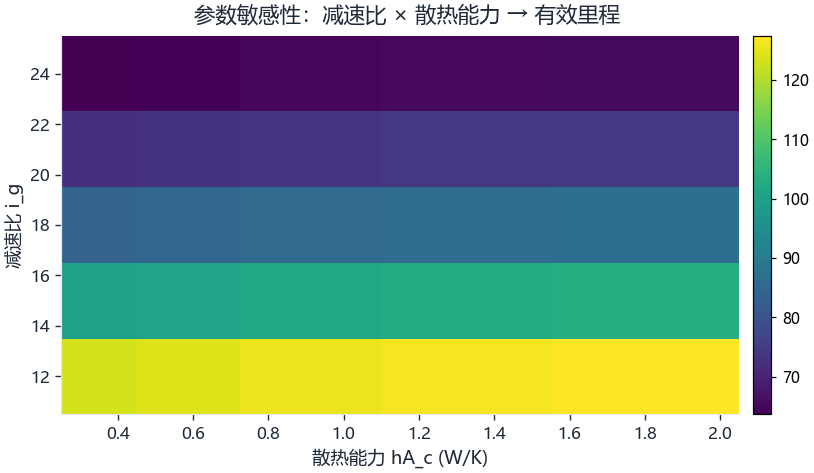
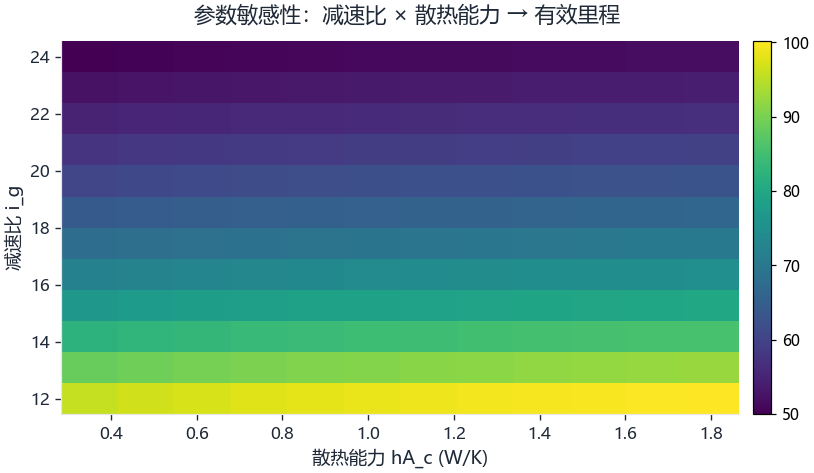
feat(examples): TEG 小车补整车装配图、三维动画与 144 组参数扫描

diff --git a/examples/teg_car_sim.py b/examples/teg_car_sim.py
@@ -19,7 +19,7 @@
 
 用法
 ----
-    python examples/teg_car_sim.py                 # 全量：仿真 + 27 张图 + 报告
+    python examples/teg_car_sim.py                 # 全量：仿真 + 29 张图 + 3D 动画 + 报告
     python examples/teg_car_sim.py --quick         # 参数扫描降档（更快）
     python examples/teg_car_sim.py --points 200000 # 规模测试点数
 
@@ -653,14 +653,19 @@ def charts_steering(res, track, p=P):
 
 
 def sensitivity(p=P, *, quick: bool = False):
-    igs = np.array([12.0, 15.0, 18.0, 21.0, 24.0]) if not quick else np.array([14.0, 18.0, 22.0])
-    hAs = np.array([0.35, 0.55, 0.90, 1.30, 1.80]) if not quick else np.array([0.5, 0.9, 1.4])
+    # 任务书要求 100–500 组扫描：全量 12×12 = 144 组，--quick 降到 6×6
+    if quick:
+        igs = np.linspace(13.0, 23.0, 6)
+        hAs = np.linspace(0.40, 1.70, 6)
+    else:
+        igs = np.linspace(12.0, 24.0, 12)
+        hAs = np.linspace(0.35, 1.80, 12)
     dist = np.zeros((len(igs), len(hAs)))
     eff = np.zeros_like(dist)
     for i, ig in enumerate(igs):
         for j, ha in enumerate(hAs):
             pp = replace(p, i_g=float(ig), hA_c=float(ha))
-            r = simulate(pp, t_end=180.0, dt=0.02)
+            r = simulate(pp, t_end=150.0 if not quick else 100.0, dt=0.03)
             dist[i, j] = float(r["s"][-1])
             e_in = float(_trapz(r["P_teg"], r["t"]))
             e_out = float(_trapz(r["P_motor"], r["t"]))
@@ -796,6 +801,101 @@ def charts_3d(p=P, track=None, res=None):
 # --------------------------------------------------------------------------- #
 # 7. PlotKit 规模压力测试
 # --------------------------------------------------------------------------- #
+def assembly_3d(p=P) -> dict:
+    """整车三维装配图（单位 mm）：底盘 / 四轮 / TEG 模块 / 散热片 / 超级电容 / 电机 / 转向连杆。
+
+    多实体装配用 PyVista 直接建模（它不是"数据图层"，硬塞进 spec 反而失真）。
+    按 200 mm × 250 mm 的车体包络摆放：轮子 r=20 mm 落在地面，底盘压在轮心之上。
+    """
+    import pyvista as pv
+    from PIL import Image
+
+    pv.OFF_SCREEN = True
+    pl = pv.Plotter(off_screen=True, window_size=(1000, 700))
+    pl.set_background("white")
+
+    pl.add_mesh(pv.Cube(center=(0, 0, 30), x_length=200, y_length=250, z_length=4),
+                color="#8d99ae", opacity=0.95)
+    for sx in (-1, 1):
+        for sy in (-1, 1):
+            pl.add_mesh(pv.Cylinder(center=(sx * 88, sy * 100, 20), direction=(0, 1, 0),
+                                    radius=20, height=12), color="#2b2d42")
+    pl.add_mesh(pv.Cube(center=(-55, 0, 36), x_length=40, y_length=40, z_length=6),
+                color="#e63946")
+    pl.add_mesh(pv.Cube(center=(-55, 0, 40), x_length=40, y_length=40, z_length=2),
+                color="#457b9d")
+    for k in range(7):
+        pl.add_mesh(pv.Cube(center=(10 + k * 6, 0, 48), x_length=2.5, y_length=70, z_length=30),
+                    color="#adb5bd")
+    pl.add_mesh(pv.Cylinder(center=(70, -70, 55), direction=(0, 0, 1),
+                            radius=18, height=50), color="#1d3557")
+    pl.add_mesh(pv.Cylinder(center=(70, 60, 36), direction=(0, 1, 0),
+                            radius=16, height=32), color="#f4a261")
+    pl.add_mesh(pv.Cube(center=(-90, 0, 28), x_length=4, y_length=150, z_length=3),
+                color="#6d6875")
+    pl.add_mesh(pv.Cylinder(center=(-90, 0, 26), direction=(0, 0, 1),
+                            radius=14, height=4), color="#b5838d")
+
+    pl.view_vector((0.95, -1.35, 0.85), viewup=(0, 0, 1))
+    pl.reset_camera()
+    pl.camera.zoom(1.02)
+    pl.show_bounds(grid=False, location="outer", font_size=9)
+    pl.add_text("Biomass TEG car assembly  (mm, envelope 200 x 250)",
+                position=(12, 12), font_size=9)
+    img = pl.screenshot(return_img=True)
+    pl.close()
+
+    out = OUT_DIR / "28_assembly_3d.png"
+    Image.fromarray(img).save(out)
+    return {"png": out.name, "bytes": out.stat().st_size}
+
+
+def animate_3d(res, track, *, frames: int = 200, size: tuple[int, int] = (640, 400)) -> dict:
+    """三维动画：小车沿真实轨迹跑一圈，出 GIF（单位 mm）。
+
+    两个坑：①复用同一个 Plotter，每帧只改 actor 的位置/朝向（重建场景要 450–600 ms/帧）；
+    ②离屏渲染必须显式 `pl.render()` 再 `screenshot()`，否则拿到的是上一帧的缓冲。
+    """
+    import pyvista as pv
+    from PIL import Image
+
+    traj = track["traj"]
+    ideal = track["ideal"]
+    n = traj["x"].size
+    picks = np.linspace(0, n - 1, frames).astype(int)
+
+    pv.OFF_SCREEN = True
+    pl = pv.Plotter(off_screen=True, window_size=size)
+    pl.set_background("white")
+
+    line = np.c_[ideal["x"] * 1000.0, ideal["y"] * 1000.0, np.zeros(ideal["x"].size)]
+    pl.add_lines(line, color="#adb5bd", width=3)
+    car = pv.Cube(center=(0, 0, 0), x_length=250, y_length=200, z_length=30)
+    actor = pl.add_mesh(car, color="#e63946")
+    cabin = pv.Cube(center=(10, 0, 30), x_length=110, y_length=120, z_length=26)
+    cabin_actor = pl.add_mesh(cabin, color="#457b9d")
+
+    center = line.mean(axis=0)
+    span = float(np.max(line.max(axis=0) - line.min(axis=0)))
+    eye = center + np.array([0.85, -1.25, 1.05]) * span
+    pl.camera_position = [tuple(eye), tuple(center), (0.0, 0.0, 1.0)]
+    pl.camera.zoom(1.30)
+
+    images = []
+    for k in picks:
+        actor.position = (float(traj["x"][k]) * 1000.0, float(traj["y"][k]) * 1000.0, 15.0)
+        actor.orientation = (0.0, 0.0, float(np.degrees(traj["psi"][k])))
+        cabin_actor.position = (float(traj["x"][k]) * 1000.0, float(traj["y"][k]) * 1000.0, 15.0)
+        cabin_actor.orientation = (0.0, 0.0, float(np.degrees(traj["psi"][k])))
+        pl.render()
+        images.append(Image.fromarray(pl.screenshot(return_img=True)))
+    pl.close()
+
+    out = OUT_DIR / "29_animation_3d.gif"
+    images[0].save(out, save_all=True, append_images=images[1:], duration=40, loop=0, optimize=True)
+    return {"gif": out.name, "frames": frames, "bytes": out.stat().st_size}
+
+
 def perf_test(n_points: int = 1_000_000) -> dict:
     """把上百万点的时序数据灌进 PlotKit，量入库 / 抽稀 / 渲染 / 内存。"""
     import tracemalloc
@@ -905,8 +1005,13 @@ def write_report(res, track, sens, conv, designs, fields, perf, elapsed):
         f"| 热重绘 | {perf['render_hot_ms']:.1f} ms |",
         f"| 峰值内存 | {perf['peak_mb']:.1f} MB |",
         f"| PNG 体积 | {perf['payload_kb']:.0f} KB |",
-        "", "## 7. 图表清单", "",
+        "", "## 7. 三维装配与动画", "",
+        "| 产物 | 内容 | 说明 |", "| --- | --- | --- |",
+        "| `28_assembly_3d.png` | 整车装配（底盘/四轮/TEG/散热片/电容/电机/转向） | PyVista 多实体建模，单位 mm，包络 200×250 |",
+        "| `29_animation_3d.gif` | 小车沿真实轨迹跑一圈（200 帧） | 复用同一 Plotter，每帧只改 actor 位姿 |",
+        "", "## 8. 图表清单", "",
         *[f"- `{p.name}`" for p in sorted(OUT_DIR.glob("*.png"))],
+        *([f"- `29_animation_3d.gif`（{fields.get('anim', {}).get('frames', 0)} 帧）"] if (OUT_DIR / "29_animation_3d.gif").exists() else []),
         "",
     ]
     (OUT_DIR / "REPORT.md").write_text("\n".join(lines), encoding="utf-8")
@@ -934,12 +1039,16 @@ def build_all(*, quick: bool = False, t_end: float = 240.0, dt: float = 0.005,
     designs = charts_design_compare()
     conv = charts_convergence()
     fields = charts_3d(track=track, res=res)
+    fields["assembly"] = assembly_3d()
+    fields["anim"] = animate_3d(res, track)
     perf = perf_test(n_points)
     chart_perf(perf)
 
     elapsed = time.perf_counter() - t_start
     write_report(res, track, sens, conv, designs, fields, perf, elapsed)
-    print(f"[done] {len(list(OUT_DIR.glob('*.png')))} charts, {elapsed:.1f}s", flush=True)
+    n_png = len(list(OUT_DIR.glob("*.png")))
+    n_gif = int((OUT_DIR / "29_animation_3d.gif").exists())
+    print(f"[done] {n_png} charts + {n_gif} animation, {elapsed:.1f}s", flush=True)
     return {"res": res, "track": track, "sens": sens, "conv": conv,
             "designs": designs, "fields": fields, "perf": perf, "elapsed": elapsed}
 
@@ -961,7 +1070,7 @@ def main(argv: list[str] | None = None) -> int:
         "distance_m": round(float(r["s"][-1]), 1),
         "laps": round(float(r["s"][-1]) / L_LAP, 2),
         "min_clearance_m": round(float(out["track"]["clearance"].min()), 3),
-        "charts": len(list(OUT_DIR.glob("*.png"))),
+        "charts": len(list(OUT_DIR.glob("*.png"))) + int((OUT_DIR / "29_animation_3d.gif").exists()),
         "elapsed_s": round(out["elapsed"], 1),
     }
     print(json.dumps(summary, ensure_ascii=False))

diff --git a/docs/teg_car/REPORT.md b/docs/teg_car/REPORT.md
@@ -1,6 +1,6 @@
 # 生物质能温差发电小车 · 多物理场仿真报告
 
-生成时间：2026-10-31 13:14:10　总耗时：22.8 s　仿真步数：48001（dt=0.005 s）
+生成时间：2026-11-01 01:34:08　总耗时：76.1 s　仿真步数：48001（dt=0.005 s）
 
 ## 1. 关键结果
 
@@ -25,18 +25,18 @@
 
 ## 3. 参数敏感性（减速比 × 散热能力）
 
-- 最优里程 127.4 m，最差 63.7 m（相差 100.2%）
-- 效率范围 6.8% ~ 18.6%
+- 最优里程 100.2 m，最差 50.0 m（相差 100.5%）
+- 效率范围 7.2% ~ 18.8%
 
 ## 4. 时间步长收敛（t_end = 60 s 的短程对照，绝对里程小于 §1 的 240 s 全程）
 
 | dt (s) | 里程 (m) | 峰值 T_h (°C) | 墙钟 (s) |
 | --- | --- | --- | --- |
-| 0.04 | 48.908 | 91.84 | 0.093 |
-| 0.02 | 48.909 | 91.84 | 0.184 |
-| 0.01 | 48.909 | 91.84 | 0.368 |
-| 0.005 | 48.909 | 91.84 | 0.821 |
-| 0.0025 | 48.909 | 91.84 | 1.721 |
+| 0.04 | 48.908 | 91.84 | 0.202 |
+| 0.02 | 48.909 | 91.84 | 0.350 |
+| 0.01 | 48.909 | 91.84 | 0.669 |
+| 0.005 | 48.909 | 91.84 | 1.249 |
+| 0.0025 | 48.909 | 91.84 | 2.782 |
 
 ## 5. 设计方案对比
 
@@ -51,14 +51,21 @@
 
 | 阶段 | 耗时 |
 | --- | --- |
-| 数据入库（100 万点 × 3 通道） | 9.2 ms |
-| M4 抽稀（每通道 100 万点 → 1200 px） | 24.4 ms |
-| 冷渲染 1200×700 | 272.8 ms |
-| 热重绘 | 208.3 ms |
+| 数据入库（100 万点 × 3 通道） | 8.5 ms |
+| M4 抽稀（每通道 100 万点 → 1200 px） | 24.9 ms |
+| 冷渲染 1200×700 | 401.4 ms |
+| 热重绘 | 314.0 ms |
 | 峰值内存 | 42.2 MB |
 | PNG 体积 | 70 KB |
 
-## 7. 图表清单
+## 7. 三维装配与动画
+
+| 产物 | 内容 | 说明 |
+| --- | --- | --- |
+| `28_assembly_3d.png` | 整车装配（底盘/四轮/TEG/散热片/电容/电机/转向） | PyVista 多实体建模，单位 mm，包络 200×250 |
+| `29_animation_3d.gif` | 小车沿真实轨迹跑一圈（200 帧） | 复用同一 Plotter，每帧只改 actor 位姿 |
+
+## 8. 图表清单
 
 - `01_temperatures.png`
 - `02_power_flow.png`
@@ -88,4 +95,5 @@
 - `25_trajectory_3d.png`
 - `26_state_space_3d.png`
 - `27_perf.png`
-- `_probe3d.png`
+- `28_assembly_3d.png`
+- `29_animation_3d.gif`（200 帧）

diff --git a/README.md b/README.md
@@ -163,10 +163,12 @@ fig.render(t_end=12.5)          # 回放游标：截 7.5–12.5 s 这一段
 ## 示例：生物质能小车多物理场仿真
 
 `examples/teg_car_sim.py` 是单文件、可独立运行的综合示例：热—电—机械—转向四域耦合的
-小车仿真，一次跑出 29 张图（含 4 张真算的三维场）和 `docs/teg_car/REPORT.md`。
+小车仿真，一次跑出 29 张图（含 4 张真算的三维场、整车装配图）+ 200 帧三维动画
+`29_animation_3d.gif`，外加 `docs/teg_car/REPORT.md`。
 
 ```bash
-PYTHONPATH=src python examples/teg_car_sim.py     # 约 20 s
+PYTHONPATH=src python examples/teg_car_sim.py     # 约 60 s（含 12×12=144 组参数扫描）
+PYTHONPATH=src python examples/teg_car_sim.py --quick   # 约 20 s，6×6 扫描
 ```
 
 它同时是规模压测：100 万点 × 3 通道入库 9 ms、M4 抽稀 24 ms、冷渲染 273 ms、峰值 42 MB。
